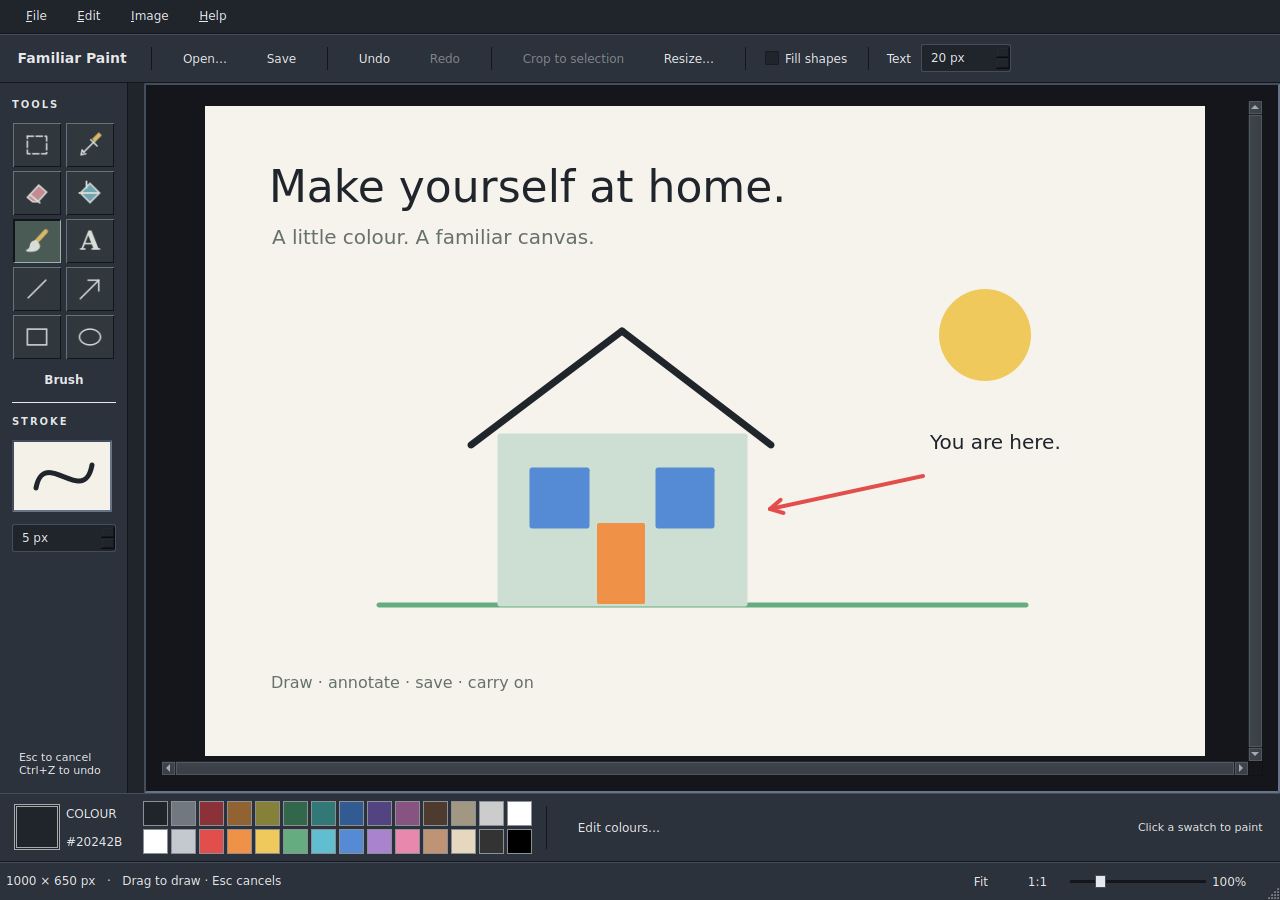
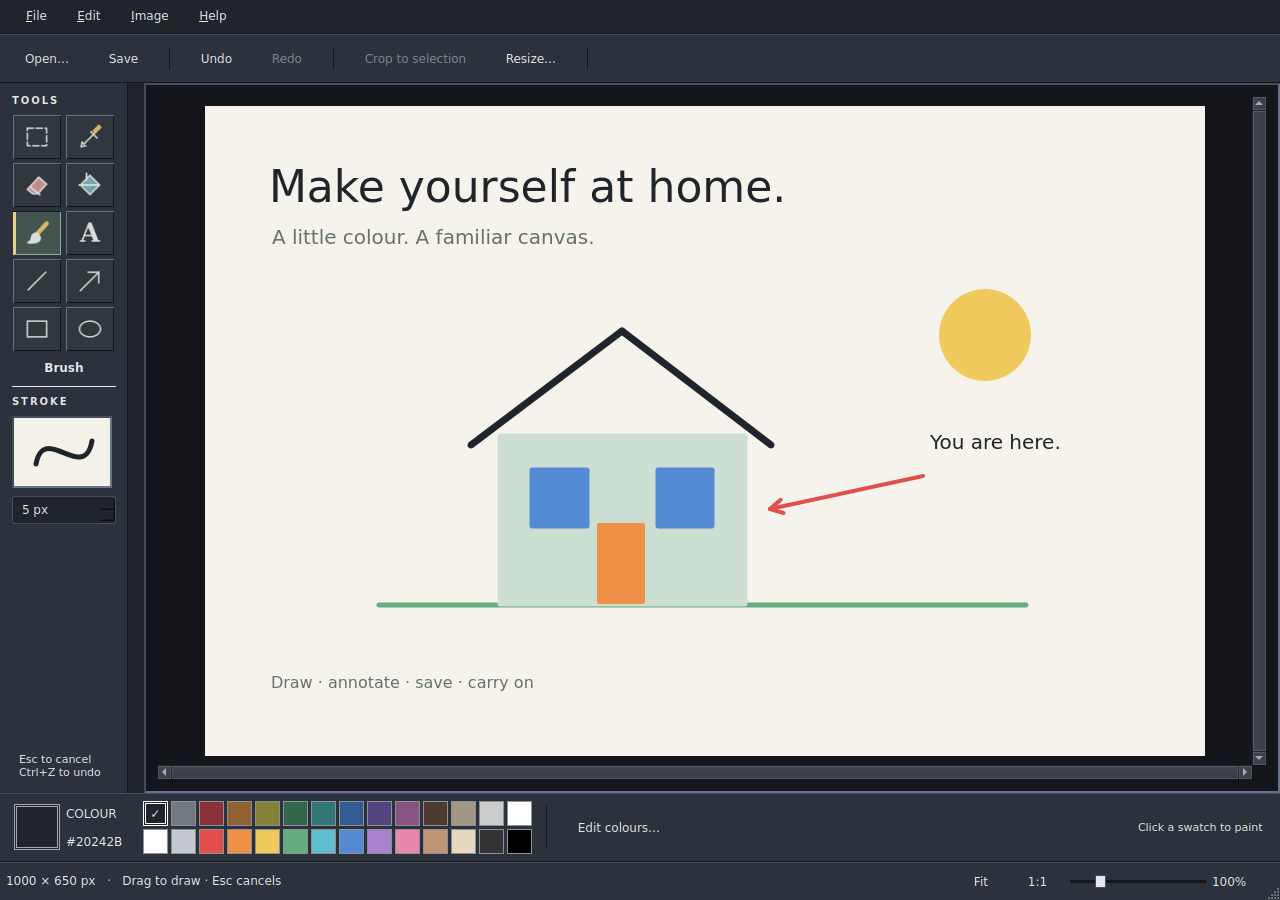
Polish classic controls for v0.0.2 preview

diff --git a/src/window.cpp b/src/window.cpp
@@ -28,6 +28,7 @@
 #include <QHBoxLayout>
 #include <QVBoxLayout>
 #include <QSlider>
+#include <QResizeEvent>
 #include <QPainter>
 #include <QPainterPath>
 #include <QtConcurrent>
@@ -105,14 +106,14 @@ void Window::makeControls() {
     });
     action(image, "Flip horizontally", {}, [this] { document_.commit(document_.image().mirrored(true, false)); refresh(); });
     auto help = menuBar()->addMenu("&Help");
-    action(help, "About Familiar Paint", {}, [this] { QMessageBox::about(this, "Familiar Paint", "Familiar Paint 0.0.1 — development preview\n\nA small native painting app for Omarchy.\nC++ and Qt. No account or cloud.\n\nSave your work regularly: crash recovery is not yet implemented."); });
+    action(help, "About Familiar Paint", {}, [this] { QMessageBox::about(this, "Familiar Paint", "Familiar Paint 0.0.2 — development preview\n\nA small native painting app for Omarchy.\nC++ and Qt. No account or cloud.\n\nSave your work regularly: crash recovery is not yet implemented."); });
     // Classic Paint's two-column toolbox is the primary navigation.
     auto body = new QWidget(this);
     auto bodyLayout = new QHBoxLayout(body);
     bodyLayout->setContentsMargins(0, 0, 0, 0); bodyLayout->setSpacing(0);
     auto toolbox = new QWidget(body); toolbox->setObjectName("toolbox"); toolbox->setFixedWidth(128);
-    toolbox->setMinimumHeight(620);
-    auto side = new QVBoxLayout(toolbox); side->setContentsMargins(12, 16, 12, 12); side->setSpacing(12);
+    toolbox->setMinimumHeight(0);
+    auto side = new QVBoxLayout(toolbox); side->setContentsMargins(12, 12, 12, 10); side->setSpacing(8);
     auto title = new QLabel("TOOLS", toolbox); title->setObjectName("sectionLabel"); side->addWidget(title);
     auto grid = new QGridLayout(); grid->setSpacing(4);
     auto group = new QActionGroup(this);
@@ -137,10 +138,10 @@ void Window::makeControls() {
     }
     side->addLayout(grid); side->addWidget(toolName);
     auto divider = new QFrame(toolbox); divider->setFrameShape(QFrame::HLine); side->addWidget(divider);
-    auto sampleLabel = new QLabel("STROKE", toolbox); sampleLabel->setObjectName("sectionLabel"); side->addWidget(sampleLabel);
+    auto sampleLabel = new QLabel("STROKE", toolbox); sampleLabel->setObjectName("strokeLabel"); side->addWidget(sampleLabel);
     auto sample = new QLabel(toolbox); sample->setObjectName("strokePreview"); sample->setFixedSize(100, 72);
     sample->setAccessibleName("Current brush stroke preview"); side->addWidget(sample);
-    auto size = new QSpinBox(toolbox); size->setRange(1, 80); size->setValue(5); size->setSuffix(" px");
+    auto size = new QSpinBox(toolbox); size->setObjectName("strokeSize"); size->setRange(1, 80); size->setValue(5); size->setSuffix(" px");
     size->setAccessibleName("Stroke width"); side->addWidget(size);
     auto drawSample = [this, sample, size] {
         QPixmap pix(100, 72); pix.fill(QColor("#f4f1e9")); QPainter p(&pix);
@@ -151,7 +152,7 @@ void Window::makeControls() {
     connect(canvas_, &Canvas::colourPicked, this, [drawSample](QColor) { drawSample(); });
     connect(this, &Window::drawingColourChanged, sample, drawSample); drawSample();
     side->addStretch();
-    auto shortcutHint = new QLabel("Esc to cancel\nCtrl+Z to undo", toolbox); shortcutHint->setObjectName("quietLabel"); side->addWidget(shortcutHint);
+    auto shortcutHint = new QLabel("Esc to cancel\nCtrl+Z to undo", toolbox); shortcutHint->setObjectName("shortcutHint"); side->addWidget(shortcutHint);
     auto toolboxScroll = new QScrollArea(body); toolboxScroll->setObjectName("toolboxScroll");
     toolboxScroll->setFrameShape(QFrame::NoFrame); toolboxScroll->setWidgetResizable(true);
     toolboxScroll->setHorizontalScrollBarPolicy(Qt::ScrollBarAlwaysOff);
@@ -163,18 +164,17 @@ void Window::makeControls() {
 
     auto options = new QToolBar("Image and tool controls", this); options->setMovable(false); options->setObjectName("commandBar");
     addToolBar(options);
-    auto brand = new QLabel("  Familiar Paint  ", this); brand->setObjectName("brandLabel"); options->addWidget(brand); options->addSeparator();
     action(options, "Open…", {}, [this] { open(); });
     action(options, "Save", {}, [this] { save(); }); options->addSeparator();
     action(options, "Undo", {}, [this] { history(false); });
     action(options, "Redo", {}, [this] { history(true); }); options->addSeparator();
     action(options, "Crop to selection", {}, [this] { crop(); });
     action(options, "Resize…", {}, [this] { resizeImage(); }); options->addSeparator();
-    auto filled = new QCheckBox("Fill shapes", this); filled->setAccessibleName("Fill shapes");
-    connect(filled, &QCheckBox::toggled, canvas_, &Canvas::setFilled); options->addWidget(filled);
-    options->addSeparator(); options->addWidget(new QLabel(" Text ", this));
-    auto textSize = new QSpinBox(this); textSize->setRange(8, 200); textSize->setValue(20); textSize->setSuffix(" px");
-    textSize->setAccessibleName("Text size"); connect(textSize, &QSpinBox::valueChanged, canvas_, &Canvas::setTextSize); options->addWidget(textSize);
+    auto filled = new QCheckBox("Fill shapes", this); filled->setObjectName("shapeFill"); filled->setAccessibleName("Fill shapes");
+    connect(filled, &QCheckBox::toggled, canvas_, &Canvas::setFilled); options->addWidget(filled)->setObjectName("shapeFillAction");
+    options->addSeparator()->setObjectName("toolOptionsSeparator"); options->addWidget(new QLabel(" Text ", this))->setObjectName("textLabelAction");
+    auto textSize = new QSpinBox(this); textSize->setObjectName("textSize"); textSize->setRange(8, 200); textSize->setValue(20); textSize->setSuffix(" px");
+    textSize->setAccessibleName("Text size"); connect(textSize, &QSpinBox::valueChanged, canvas_, &Canvas::setTextSize); options->addWidget(textSize)->setObjectName("textSizeAction");
 
     auto palette = new QToolBar("Colour palette", this); palette->setObjectName("colourPalette"); palette->setMovable(false);
     addToolBar(Qt::BottomToolBarArea, palette);
@@ -194,14 +194,15 @@ void Window::makeControls() {
     for (const auto &colour : colours) {
         auto button = new QToolButton(this); button->setObjectName("swatch"); button->setFixedSize(25, 25);
         button->setAccessibleName("Colour " + colour); button->setToolTip(colour);
-        button->setStyleSheet(QString("QToolButton { background:%1; border:1px solid #8b9095; border-radius:0; padding:0; } QToolButton:hover, QToolButton:focus { border:2px solid #ffffff; }").arg(colour));
+        button->setCheckable(true); button->setProperty("drawingColour", colour);
+        button->setStyleSheet(QString("QToolButton { background:%1; border:1px solid #8b9095; border-radius:0; padding:0; } QToolButton:hover { border:2px solid #ffffff; } QToolButton:checked { border:3px double #ffffff; } QToolButton:focus { border:3px dashed #efc95b; }").arg(colour));
         connect(button, &QToolButton::clicked, this, [this, colour] { setColour(QColor(colour)); });
         swatchGrid->addWidget(button, index / 14, index % 14); ++index;
     }
     palette->addWidget(swatches); palette->addSeparator();
     action(palette, "Edit colours…", {}, [this] { auto c = QColorDialog::getColor(canvas_->colour(), this, "Drawing colour"); if (c.isValid()) setColour(c); });
     auto spacer = new QWidget(this); spacer->setSizePolicy(QSizePolicy::Expanding, QSizePolicy::Preferred); palette->addWidget(spacer);
-    auto paletteHint = new QLabel("Click a swatch to paint", this); paletteHint->setObjectName("quietLabel"); palette->addWidget(paletteHint);
+    auto paletteHint = new QLabel("Click a swatch to paint", this); paletteHint->setObjectName("paletteHint"); palette->addWidget(paletteHint)->setObjectName("paletteHintAction");
     setColour(canvas_->colour());
 
     auto zoom = new QSlider(Qt::Horizontal, this); zoom->setRange(25, 400); zoom->setValue(100); zoom->setFixedWidth(136); zoom->setAccessibleName("Canvas zoom percent");
@@ -217,6 +218,14 @@ void Window::setColour(QColor colour) {
     colourButton_->setStyleSheet("QToolButton { background:" + colour.name() + "; border:3px double #a7a9ac; border-radius:0; }");
     colourButton_->setToolTip("Drawing colour " + colour.name() + " — click to edit");
     if (auto label = findChild<QLabel *>("colourValue")) label->setText(colour.name().toUpper());
+    for (auto swatch : findChildren<QToolButton *>("swatch")) {
+        const bool active = QColor(swatch->property("drawingColour").toString()) == colour;
+        swatch->setChecked(active);
+        swatch->setText(active ? "✓" : "");
+        QPalette swatchPalette = swatch->palette();
+        swatchPalette.setColor(QPalette::ButtonText, QColor(swatch->property("drawingColour").toString()).lightness() > 140 ? Qt::black : Qt::white);
+        swatch->setPalette(swatchPalette);
+    }
     emit drawingColourChanged();
 }
 
@@ -225,7 +234,13 @@ void Window::refresh() {
     setWindowTitle((document_.dirty() ? "• " : "") + name + " — Familiar Paint");
     statusBar()->showMessage(QString("%1 × %2 px   ·   Drag to draw · Esc cancels").arg(document_.image().width()).arg(document_.image().height()));
     canvas_->syncSize();
+    const auto tool = canvas_->tool();
+    if (auto fill = findChild<QCheckBox *>("shapeFill")) fill->setEnabled(tool == Canvas::Tool::Rectangle || tool == Canvas::Tool::Ellipse);
+    if (auto textSize = findChild<QSpinBox *>("textSize")) textSize->setEnabled(tool == Canvas::Tool::Text);
+    if (auto stroke = findChild<QSpinBox *>("strokeSize")) stroke->setEnabled(tool != Canvas::Tool::Text && tool != Canvas::Tool::Fill && tool != Canvas::Tool::Picker && tool != Canvas::Tool::Select);
     for (auto a : findChildren<QAction *>()) {
+        if (a->objectName() == "shapeFillAction") a->setVisible(tool == Canvas::Tool::Rectangle || tool == Canvas::Tool::Ellipse);
+        if (a->objectName() == "textSizeAction" || a->objectName() == "textLabelAction" || a->objectName() == "toolOptionsSeparator") a->setVisible(tool == Canvas::Tool::Text);
         if (a->text() == "Undo") a->setEnabled(document_.canUndo());
         if (a->text() == "Redo") a->setEnabled(document_.canRedo());
         if (a->text() == "Crop to selection") a->setEnabled(!canvas_->selection().isEmpty());
@@ -340,3 +355,12 @@ bool Window::event(QEvent *event) {
     return QMainWindow::event(event);
 }
 void Window::capture(const QString &path) { grab().save(path); }
+
+void Window::resizeEvent(QResizeEvent *event) {
+    QMainWindow::resizeEvent(event);
+    const bool compact = height() < 720;
+    for (auto name : {"strokePreview", "shortcutHint"})
+        if (auto widget = findChild<QWidget *>(name)) widget->setVisible(!compact);
+    for (auto button : findChildren<QToolButton *>("drawingTool")) button->setFixedHeight(compact ? 34 : 44);
+    if (auto hint = findChild<QAction *>("paletteHintAction")) hint->setVisible(width() >= 1050);
+}

diff --git a/src/theme.cpp b/src/theme.cpp
@@ -41,9 +41,9 @@ void applyTheme(QApplication *app) {
         QMenuBar { background:%1; padding:5px 8px; border-bottom:1px solid %4; }
         QMenuBar::item { padding:5px 12px; }
         QMenuBar::item:selected { background:%5; }
-        QToolBar { background:%2; spacing:6px; padding:10px 8px; border-top:1px solid %3; border-bottom:1px solid %4; }
+        QToolBar { background:%2; spacing:6px; padding:7px 8px; border-top:1px solid %3; border-bottom:1px solid %4; }
         QToolBar::separator { background:%4; width:1px; margin:5px 8px; }
-        QToolButton { padding:7px 10px; border-radius:2px; border:1px solid transparent; }
+        QToolButton { padding:7px 10px; border-radius:0; border:1px solid transparent; }
         QToolButton:hover { background:%5; border:1px solid %3; }
         QToolButton:focus { border:1px dashed %6; }
         QToolButton:pressed { border-top:1px solid %4; border-left:1px solid %4; background:%1; }
@@ -51,17 +51,19 @@ void applyTheme(QApplication *app) {
         QWidget#toolbox { background:%2; border-right:1px solid %4; }
         QToolButton#drawingTool { background:#30373d; padding:4px; border-radius:0; border-top:1px solid #697278; border-left:1px solid #697278; border-bottom:1px solid #11161b; border-right:1px solid #11161b; }
         QToolButton#drawingTool:hover { background:#465058; }
-        QToolButton#drawingTool:checked { background:#4a5b55; border-top:2px solid #11161b; border-left:2px solid #11161b; border-bottom:1px solid #a0b1a9; border-right:1px solid #a0b1a9; }
+        QToolButton#drawingTool:checked { background:#43554e; border-top:1px solid #11161b; border-left:3px solid #e8cf87; border-bottom:1px solid #94a89e; border-right:1px solid #94a89e; }
         QToolButton#drawingTool:focus { border:2px solid #e8cf87; }
-        QLabel#sectionLabel { color:%6; font-size:10px; font-weight:600; letter-spacing:2px; }
+        QLabel#sectionLabel, QLabel#strokeLabel { color:%6; font-size:10px; font-weight:600; letter-spacing:2px; }
         QLabel#brandLabel { font-size:14px; font-weight:600; }
         QLabel#toolName { font-size:12px; font-weight:600; padding:2px; }
         QLabel#strokePreview { border:2px inset %3; }
-        QLabel#quietLabel { font-size:11px; padding:4px; }
-        QScrollArea#canvasWell { background:%4; border:2px inset %3; padding:16px; }
+        QLabel#quietLabel, QLabel#shortcutHint, QLabel#paletteHint { font-size:11px; padding:4px; }
+        QScrollArea#canvasWell { background:%4; border:2px inset %3; padding:12px; }
         QSpinBox { background:%1; padding:5px 7px; border:1px solid %3; border-radius:2px; min-width:58px; }
         QSpinBox:focus { border:1px solid %6; }
+        QSpinBox:disabled { color:#80858c; border-color:%4; }
         QCheckBox { padding:5px; }
+        QCheckBox:disabled { color:#80858c; }
         QStatusBar { background:%2; border-top:1px solid %3; padding:3px 8px; }
         QStatusBar::item { border:none; }
         QSlider::groove:horizontal { height:3px; background:%4; }

diff --git a/tests/native/preview.cpp b/tests/native/preview.cpp
@@ -2,6 +2,10 @@
 #include "theme.h"
 #include <QApplication>
 #include <QTest>
+#include <QToolButton>
+#include <QSpinBox>
+#include <QCheckBox>
+#include <QScrollArea>
 
 int main(int argc, char **argv) {
     QApplication app(argc, argv);
@@ -37,6 +41,25 @@ int main(int argc, char **argv) {
     w.refresh();
     if (argc > 3) w.resize(QString::fromLocal8Bit(argv[2]).toInt(), QString::fromLocal8Bit(argv[3]).toInt());
     app.processEvents();
+    if (argc > 4) {
+        auto buttons = w.findChildren<QToolButton *>("drawingTool");
+        auto choose = [&](QString name) { for(auto b:buttons) if(b->accessibleName()==name) { b->click(); app.processEvents(); return; } };
+        choose("Text");
+        auto textSize = w.findChild<QSpinBox *>("textSize");
+        if (!textSize->isVisible() || !textSize->isEnabled()) return 3;
+        choose("Rectangle");
+        auto fill = w.findChild<QCheckBox *>("shapeFill");
+        if (!fill->isVisible() || !fill->isEnabled() || textSize->isVisible()) return 4;
+        choose("Brush");
+        if (fill->isVisible() || textSize->isVisible()) return 5;
+        if (w.height() < 720) {
+            auto stroke = w.findChild<QSpinBox *>("strokeSize");
+            auto toolScroll = w.findChild<QScrollArea *>("toolboxScroll");
+            if (!toolScroll->viewport()->rect().contains(stroke->mapTo(toolScroll->viewport(),stroke->rect().bottomRight()))) return 6;
+        }
+        for (auto b : w.findChildren<QToolButton *>()) if (b->accessibleName() == "Fit canvas in window") b->click();
+        app.processEvents();
+    }
     w.capture(argc > 1 ? QString::fromLocal8Bit(argv[1]) : "preview.png");
     return 0;
 }

diff --git a/src/main.cpp b/src/main.cpp
@@ -40,7 +40,7 @@ int main(int argc,char **argv) {
     }
     if(headless) qputenv("QT_QPA_PLATFORM","offscreen");
     QApplication app(argc,argv);
-    app.setApplicationName("Familiar Paint"); app.setApplicationVersion("0.0.1"); app.setOrganizationName("Familiar");
+    app.setApplicationName("Familiar Paint"); app.setApplicationVersion("0.0.2"); app.setOrganizationName("Familiar");
     app.setDesktopFileName("io.github.tcballard.FamiliarPaint"); app.setWindowIcon(QIcon::fromTheme("io.github.tcballard.FamiliarPaint")); app.setStyle("Fusion");
     QCommandLineParser parser;
     parser.setApplicationDescription("Native Paint with JSON drawing batches and opt-in local agent control. See --schema.");

diff --git a/src/window.h b/src/window.h
@@ -30,6 +30,7 @@ signals:
     void drawingColourChanged();
 protected:
     void closeEvent(QCloseEvent *) override;
+    void resizeEvent(QResizeEvent *) override;
     bool event(QEvent *) override;
 private:
     QAction *action(QWidget *container, const QString &name, const QKeySequence &shortcut, std::function<void()> callback);

diff --git a/RELEASE_NOTES.md b/RELEASE_NOTES.md
@@ -1,40 +1,26 @@
-# Familiar Paint v0.0.1 — Preview
+# Familiar Paint v0.0.2 — Preview
 
-Classic Paint tooling, with a CLI your coding agent can use. This first preview
-brings quick sketches, annotations and everyday image edits to Omarchy.
+The same familiar canvas, with less getting in the way.
 
-- Draw with brushes, fill, lines, arrows, shapes and raster text.
-- Select, crop, resize, rotate and flip; save PNG, JPEG or BMP.
-- Use bounded undo/redo and atomic saves with external-change checks.
-- Render JSON batches without a window, or enable a local agent session to paint
-  on the open canvas. Each batch is one undo step; revision checks protect live edits.
-- Install the prebuilt Linux x86_64 archive with system Qt runtime dependencies.
-  No compiler or language toolchain is required.
+This preview keeps the classic toolbox and colour palette, and makes the everyday controls easier to read and use.
 
-## Try the preview
+- **Know what is selected.** A stronger marker identifies the active tool, and a tick marks the current palette colour. Keyboard focus has its own treatment.
+- **See the options you need.** Text size appears for Text; shape fill appears for Rectangle and Ellipse. The toolbar drops its repeated app title.
+- **Keep drawing in a smaller window.** At 800×600, the toolbox becomes compact so every tool and the stroke-width control stay visible. The stroke sample and shortcut hint return when there is room.
+- **Keep the old-school feel.** Square buttons, bevelled edges and the bottom palette stay, with tighter spacing and a refreshed app screenshot.
 
-Download `familiar-paint-0.0.1-linux-x86_64.tar.gz` and `SHA256SUMS`.
-Verify the checksum, extract, and follow the included README or the
-[preview installation guide](https://github.com/tcballard/omarchy-app-familiar-paint/blob/v0.0.1/docs/PREVIEW-INSTALL.md).
-Close Paint before upgrading; the installer keeps the previous executable for rollback.
+## Try it
 
-## What has been checked
+Download `familiar-paint-0.0.2-linux-x86_64.tar.gz` and `SHA256SUMS`, verify the checksum, extract, and follow the included README or [installation guide](https://github.com/tcballard/omarchy-app-familiar-paint/blob/v0.0.2/docs/PREVIEW-INSTALL.md). Close Paint before upgrading. The installer retains the previous executable for rollback; saved images stay in place. Only the system Qt runtime is required.
 
-The release preparation passed Ubuntu CI, including the live CLI/socket round trip,
-desktop-file validation, archive checksums and packaged install/upgrade/remove smoke checks.
-The tagged build repeats these checks and records its source commit in `BUILD-INFO`.
+The drawing CLI and its version-1 JSON protocol remain compatible with v0.0.1.
 
-Real Omarchy/XPS acceptance, current Arch Qt runtime compatibility and continuous
-Wayland demo recording remain unverified. This is an early preview for testing.
-The [XPS checklist](https://github.com/tcballard/omarchy-app-familiar-paint/blob/v0.0.1/docs/XPS-TEST.md)
-covers the remaining desktop checks. Existing screenshots use Qt offscreen captures;
-the existing welcome video is staged.
+## Checks and preview limits
 
-## Known limits
+The UI was built and inspected through Qt's offscreen renderer at 1280×900, 800×600, and 1000×720 with 150% scaling. Automated checks exercise tool-option visibility, compact stroke-width access and Fit. CI also checks the native suite, live CLI/socket round trip, desktop entry and packaged install/upgrade/remove flow.
 
-No autosave/crash recovery, layers, movable pasted objects, print support or
-non-destructive text. Eraser paints white. Save regularly. Large drawing batches
-may briefly pause the window.
+Real Omarchy/XPS acceptance and current Arch Qt runtime compatibility remain pending. Screenshots are offscreen captures, and the existing welcome video is staged. This release is still a preview.
 
-If something breaks, please include the steps, your Omarchy/Qt versions and the
-source commit from `BUILD-INFO` in an issue.
+No autosave/crash recovery, layers, movable pasted objects or non-destructive text yet. Eraser paints white. Save regularly.
+
+If the compact layout gets in your way, include your window size and display scale with the issue.

diff --git a/docs/RELEASE.md b/docs/RELEASE.md
@@ -18,7 +18,7 @@ archive metadata; this is not a claim of bit-identical compiler output.
 
 1. Review and merge the preparation PR after CI passes.
 2. Download the main-branch candidate and verify SHA256SUMS. Keep BUILD-INFO.
-3. Complete docs/XPS-TEST.md against that candidate on the XPS.
+3. Complete docs/XPS-TEST.md against that candidate on the XPS, or explicitly retain pending desktop acceptance for an authorised early preview.
 4. Fix any failures through reviewed changes and test the resulting candidate.
 5. Add the real screenshot/demo, exact tested environment and honest acceptance
    results. Update RELEASE_NOTES.md, README and VERIFICATION.md; preserve the
@@ -27,15 +27,20 @@ archive metadata; this is not a claim of bit-identical compiler output.
 
 ## Draft then publish
 
-The version is 0.0.1. Once the final source is approved, create tag `v0.0.1` at
+The version is 0.0.2. Once the final source is approved, create tag `v0.0.2` at
 that reviewed commit. The workflow rejects a mismatch with the CMake version,
 builds/tests/packages again, and creates an **unpublished prerelease draft** with
 the two downloadable assets. It does not automatically publish a release.
 
-Inspect the draft, checksums, BUILD-INFO and final CI result. Test the tagged
-archive's install/launch on the XPS before publishing, since it was rebuilt.
+Inspect the draft, checksums, BUILD-INFO and final CI result. For desktop-validated releases, test the tagged
+archive's install/launch on the XPS, since it was rebuilt. Early previews must
+keep any pending desktop checks explicit in the notes.
 Publish the draft only when explicitly authorised; keep it marked prerelease.
 If a draft/tag already exists, stop and inspect it rather than replacing it.
 
-No tag, GitHub release or Omarchy package promotion is performed by this
-preparation PR. Omarchy packaging submission follows separately after acceptance.
+When publishing through the browser, attach the verified main-commit archive
+and checksums and select that exact commit as the new tag target. GitHub creates
+the tag on publication. The tag workflow reruns the checks and preserves an
+existing release and its reviewed assets.
+
+Omarchy packaging submission follows separately after desktop acceptance.

diff --git a/README.md b/README.md
@@ -28,25 +28,24 @@ Preparing to test on the XPS? See the [binary preview setup](docs/PREVIEW-INSTAL
 [desktop test and live recording checklist](docs/XPS-TEST.md), and
 [release procedure](docs/RELEASE.md).
 
-**Development preview, version 0.0.1.** There is no tagged release or Omarchy package yet. The intended target is Omarchy 4 / Hyprland on Linux x86_64; testing on an installed Omarchy desktop remains outstanding.
+**Preview, version 0.0.2.** Download the prebuilt archive from [Releases](https://github.com/tcballard/omarchy-app-familiar-paint/releases). There is no Omarchy package yet. The intended target is Omarchy 4 / Hyprland on Linux x86_64; testing on an installed Omarchy desktop remains outstanding.
 
 <a id="run-paint"></a>
 
-Build and install for your user on Omarchy/Arch:
+Download the Linux x86_64 archive and `SHA256SUMS` from the release. No compiler or language toolchain is needed. Close Paint before upgrading.
 
 ```bash
-sudo pacman -S --needed git base-devel cmake ninja qt6-base qt6-wayland
-git clone https://github.com/tcballard/omarchy-app-familiar-paint.git
-cd omarchy-app-familiar-paint
-cmake -S . -B target -G Ninja -DCMAKE_BUILD_TYPE=Release
-cmake --build target --parallel 2
-cmake --install target --prefix "$HOME/.local"
+sudo pacman -S --needed qt6-base qt6-wayland
+sha256sum -c SHA256SUMS
+tar -xzf familiar-paint-0.0.2-linux-x86_64.tar.gz
+cd familiar-paint-0.0.2-linux-x86_64
+bash scripts/install.sh
 "$HOME/.local/bin/familiar-paint"
 ```
 
 Open **Familiar Paint** from your app launcher after installing. Installation leaves your default image associations and personal keybindings alone.
 
-A compiled Linux x86_64 executable is also available in the [successful CI run's artifacts](https://github.com/tcballard/omarchy-app-familiar-paint/actions/runs/37185638348). It requires system Qt libraries. [Build and installation details →](docs/GUIDE.md#run-paint)
+[Build from source →](docs/GUIDE.md#run-paint) · [Installation and rollback →](docs/PREVIEW-INSTALL.md)
 
 ## Let your agent paint
 

diff --git a/docs/GUIDE.md b/docs/GUIDE.md
@@ -2,7 +2,7 @@
 
 ## Development preview
 
-Version 0.0.1 is a runnable development preview, not a published or live-validated release. Intended target: Omarchy 4 / Hyprland on Linux x86_64. Tested locally: Ubuntu 24.04.3, GCC 13.3, Qt 6.4.2, offscreen rendering. **No installed Omarchy version has been tested.** The badge identifies a community app, not official endorsement.
+Version 0.0.2 is an early preview. Downloadable previews are available from GitHub Releases; live desktop validation remains pending. Intended target: Omarchy 4 / Hyprland on Linux x86_64. Tested locally: Ubuntu 24.04.3, GCC 13.3, Qt 6.4.2, offscreen rendering. **No installed Omarchy version has been tested.** The badge identifies a community app, not official endorsement.
 
 ### What's here
 

diff --git a/docs/PREVIEW-INSTALL.md b/docs/PREVIEW-INSTALL.md
@@ -1,6 +1,6 @@
 # Familiar Paint preview
 
-Native Paint for Omarchy, version 0.0.1. This is an early preview.
+Native Paint for Omarchy, version 0.0.2. This is an early preview.
 The archive contains a prebuilt Linux x86_64 executable: no compiler, Cargo,
 Node.js or Python is needed to install or run Paint. It uses system Qt libraries.
 
